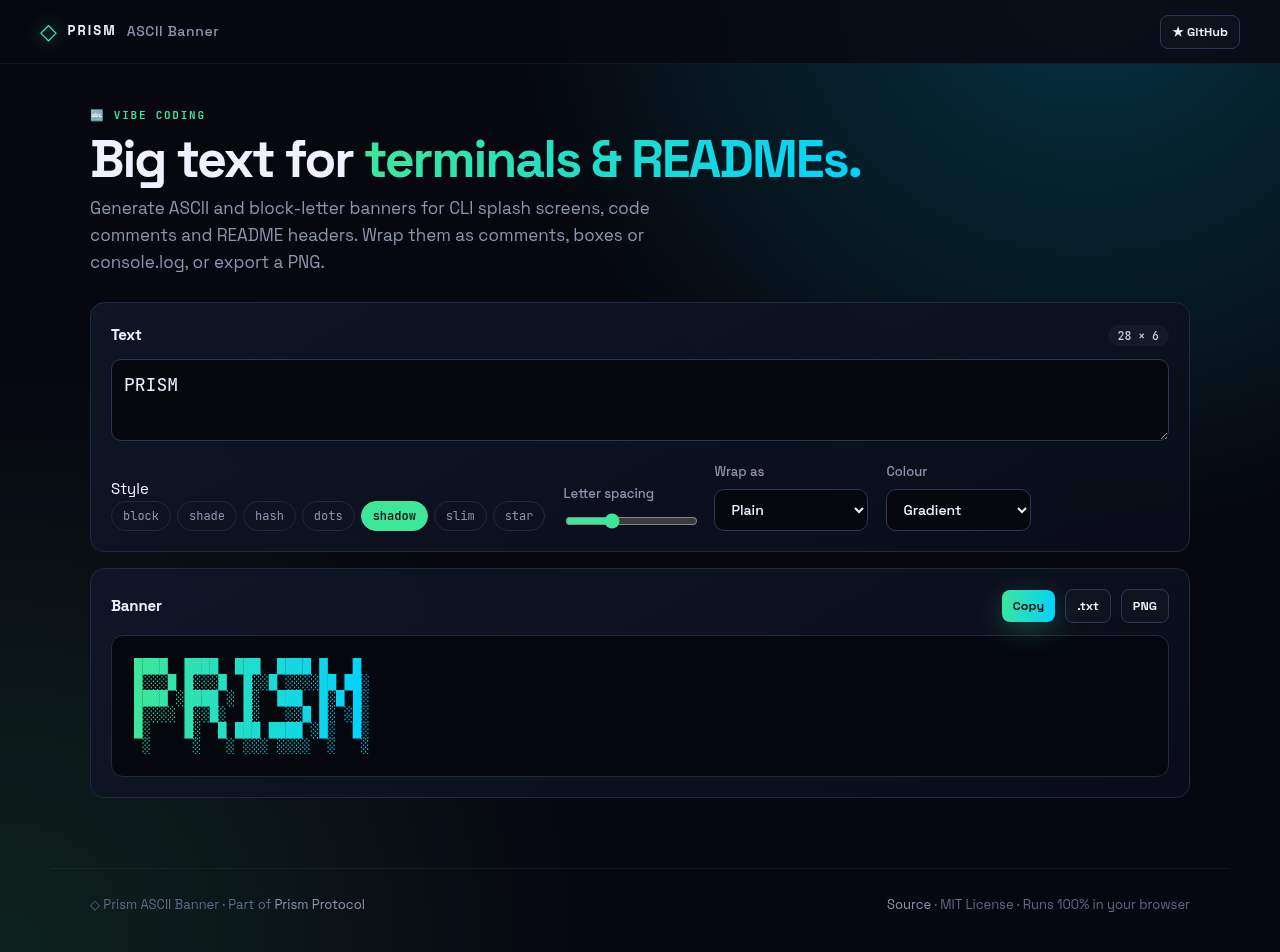
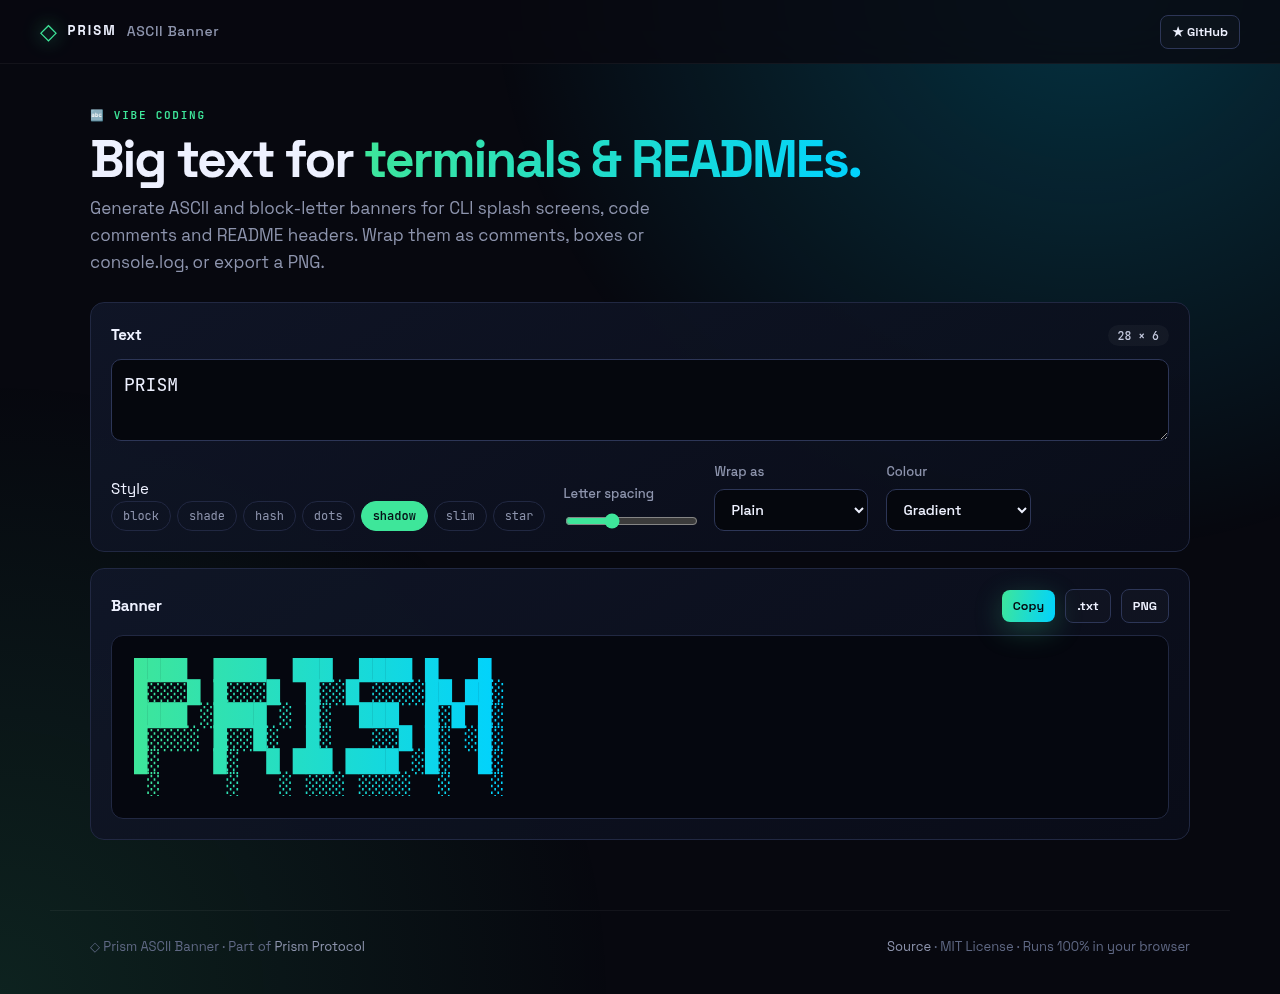
chore: update

diff --git a/css/app.css b/css/app.css
@@ -3,7 +3,7 @@
 .chips{display:flex;flex-wrap:wrap;gap:6px}.chips button{font:12px var(--mono);padding:6px 11px;border-radius:99px;border:1px solid var(--line);background:transparent;color:var(--muted);cursor:pointer}.chips button.on{background:var(--accent);border-color:var(--accent);color:#061016;font-weight:600}
 .art-card{margin-top:16px}
 .art-wrap{overflow:auto;padding:22px;border-radius:12px;background:#05070f;border:1px solid var(--line)}
-.art{margin:0;font:14px/1.15 var(--mono);white-space:pre;width:max-content}
+.art{margin:0;font:clamp(10px,2vw,22px)/1.05 var(--mono);white-space:pre;width:max-content}
 .art.grad{background:linear-gradient(90deg,var(--accent),var(--accent-2));-webkit-background-clip:text;background-clip:text;color:transparent}
 .art.mono{color:var(--text)}.art.green{color:#3ee69a;text-shadow:0 0 8px #3ee69a66}
 .warn{font-size:13px;margin-top:8px}

diff --git a/README.md b/README.md
@@ -78,6 +78,7 @@ prism-ascii-banner/
 │   └── core.test.js
 ├── .gitignore
 ├── LICENSE
+├── README.md
 ├── index.html
 └── package.json
 ```
